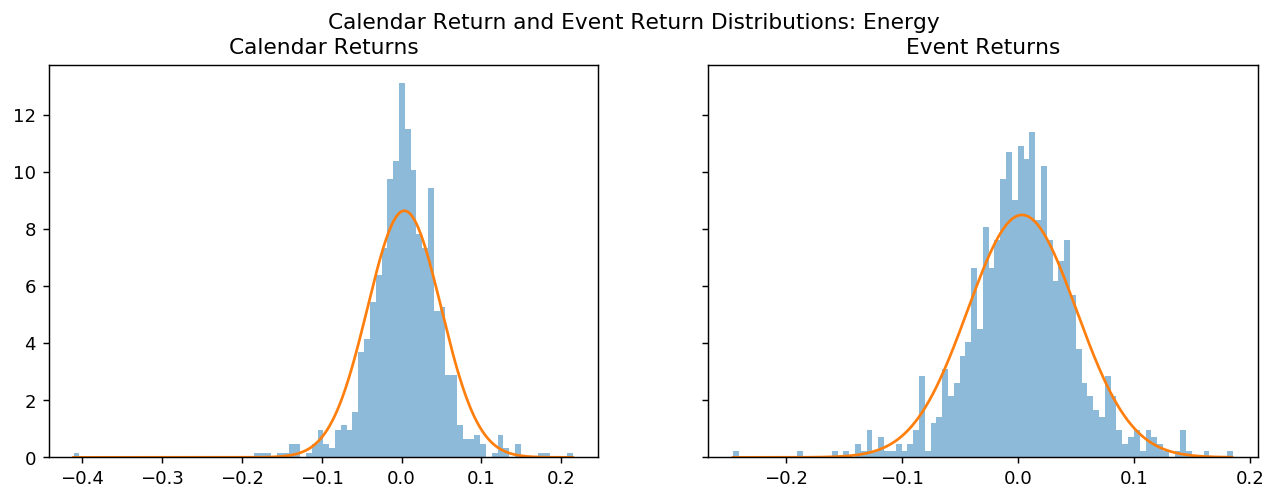
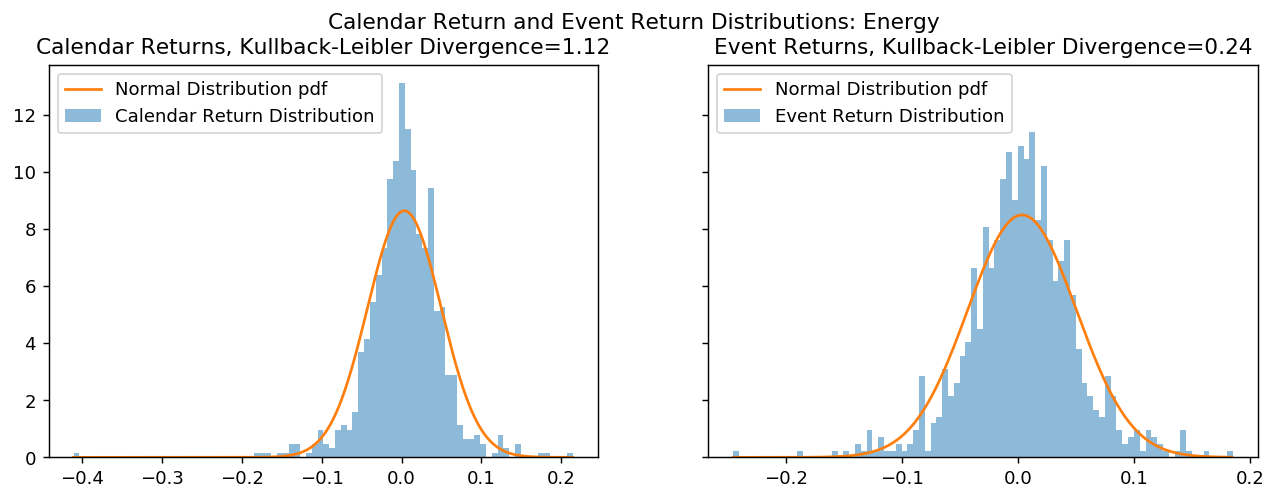
single observation

Changed region(s): [[0.0305, 0.0599, 0.4886, 0.2695], [0.5497, 0.0599, 0.9773, 0.2695], [0.0305, 0.1497, 0.0611, 0.1796]]

diff --git a/_posts/2022-09-01-Single_Observation.md b/_posts/2022-09-01-Single_Observation.md
@@ -1,0 +1,101 @@
+---
+layout: post
+title: Fat Tail, Single Observation
+date: 2022-09-01
+categories: Quant
+tag: Quantitative, Fat tail, Quant, 정량분석, 퀀트
+comments: True
+use_math: True
+---
+
+금융자산 수익률은 두꺼운 꼬리(fat-tail) 분포를 띄는 것이 일반적이다. Fat tail은 단순히 좌, 우의 극단적인 값이 정규(Normal)분포보다 더 흔하게 발생할 뿐만 아니라 수많은 통계치의 추정을 어렵게 한다.
+
+***
+
+### 모멘트(Moments)
+
+함수의 '모멘트'는 함수의 값들이 분포하는 모양(shape)을 정량적으로 측정하는 방법이다.
+
+이산확률변수 $X$의 확률분포함수를 $p(x)$라고 할 때, 확률분포함수 $p(x)$의 
+
+* 1차 모멘트는 평균(mean): $\sum X^{1} \times p(x)=E\left[X^1\right]$
+
+* 2차 모멘트는 분산(variance): $\sum X^{2} \times p(x)=E\left[X^2\right]$ 
+
+* 3차 모멘트는 왜도(skewness): $\sum X^{3} \times p(x)=E\left[X^3\right]$
+
+* 4차 모멘트는 첨도(kurtosis): $\sum X^{4} \times p(x)=E\left[X^4\right]$
+
+를 뜻한다.
+
+
+
+대부분의 금융자산의 수익률은 정규분포보다 꼬리가 두꺼운(fat-tail) 분포의 모습을 보인다. 그런데 금융자산 수익률의 분산(2차 모멘트)의 추이를 보면 한 가지 특징이 관찰되는데
+
+1. 시간에 따른 분산 값의 변화가 있고
+2. 그 변화 폭이 매우 클 때도 있으며
+3. 한 번 높아진 혹은 낮아진 분산 레벨이 꽤 오랜기간 지속되는 경향이 있다.
+
+이는 분산이 '소수의 관측치'에 의해 크게 영향을 받기 때문이다.
+
+<img src="/assets/images/djai monthly returns.png" width="90%" height="90%" title="다우존스 산업지수 월간수익률과 수익률의 표준편차 추이"/>
+
+
+
+### Single Observation
+
+단 하나의 관측치에 의해 2차, 4차 모멘트가 얼만큼 영향을 받는지 계산해본다.
+
+개별 금융자산의 수익률을 $X_i$라고 했을 때
+
+$Max Q_2:= \frac{ \max_i \left[ X_i^2 \right]} {\sum_i X_i^2} $
+
+$Max Q_4:= \frac{\max_i \left[ X_i^4 \right]}{\sum_i X_i^4} $
+
+를 계산해 본다. 이는 분산과 첨도를 계산함에 있어 개별 관측치가 미치는 영향의 최대값을 의미한다. (1차, 3차 모멘트는 음수가 될 수 있어서 제외한다.)
+
+다양한 금융자산 지수의 지수 시작일부터 2022년 8월 10일까지 일간 데이터를 기준으로 했을 때 결과는 아래와 같다.
+
+▼분산
+
+|      지수      | Max Q2 | Max Q4 |   시작일   | 데이터 수 |
+| :------------: | :----: | :----: | :--------: | :-------: |
+|      WTI       | 54.1%  | 97.3%  | 1983-01-10 |  10,328   |
+|   Hang Seng    |  4.9%  | 57.9%  | 1964-07-31 |  15,139   |
+|     S&P500     |  3.4%  | 45.1%  | 1963-12-31 |  15,292   |
+|  US TSY 10yr   |  2.1%  | 43.2%  | 1963-12-31 |  15,292   |
+|     GBPUSD     |  2.0%  | 36.5%  | 1963-12-31 |  15,292   |
+|     Silver     |  1.6%  | 21.8%  | 1979-01-02 |  11,377   |
+|  JP Govt 10yr  |  1.5%  |  6.8%  | 1966-10-31 |  14,553   |
+|    FTSE100     |  1.3%  | 12.9%  | 1983-12-30 |  10,074   |
+|   Nikkei225    |  1.2%  | 12.5%  | 1963-12-31 |  15,292   |
+|      Gold      |  1.1%  | 11.1%  | 1968-01-03 |  14,246   |
+|     USDJPY     |  1.0%  | 13.2%  | 1969-12-31 |  13,726   |
+|  EuroStoxx50   |  1.0%  |  8.8%  | 1986-12-31 |   9,291   |
+|  DE Govt 10yr  |  0.8%  |  9.2%  | 1977-04-18 |  11,823   |
+|     EURUSD     |  0.7%  |  7.7%  | 1963-12-31 |  15,292   |
+| 난수(정규분포) |  0.2%  |  0.8%  | 1963-12-31 |  15,292   |
+
+
+
+WTI의 경우 단 하루 수익률이 전체 분산의 54.1%, 전체 첨도의 97.3%를 차지하고,
+
+S&P500 지수의 경우 단 하루 수익률이 전체 분산의 3.4%, 전체 첨도의 45.1%를 차지했다.
+
+반면, 정규분포를 따르는 난수의 경우 단 하루 수익률이 전체 분산의 0.2%, 전체 첨도의 0.8%를 차지한 것과 비교하면 매우 큰 수치이다.
+
+금융자산 수익률은 정규분포가 아닌 것은 물론 상당한 fat-tail 분포를 보이고, fat-tail의 경우 분산, 왜도, 첨도 등의 통계치의 신뢰성이 담보되지 못한다.
+
+두 확률변수 $X$와 $Y$에 대해서
+
+$X$와 $X$ 사이의 2차 모멘트가 분산이고, $X$와 $Y$사이의 2차 모멘트와 유사한 것이 공분산(covariance)이라는 점을 고려했을 때
+
+$Var(X)= E\left[X^2\right]$, $Cov(X, Y)= E\left[X Y \right]$,
+
+$X$와 $Y$ 사이의 공분산, 그리고 상관관계 역시 의학 등 다른 영역의 데이터와 비교했을 때 신뢰성이 높지 않다. $X$와 $Y$ 사이 공분산 추정에 오류가 있을 수 있고, $X$와 $Y$의 표준편차 추정에 어려움이 있기 때문이다.
+
+정성(Qualitative) 분석에 대해서는 의심을 많이 하면서 정량(Quantiative) 분석에 대해서는 의심을 덜하는 경향이 있는데, 공분산, 분산, 표준편차, 상관관계, 왜도, 첨도 등을 활용하는 분석은 상당히 잘못된 결과를 초래할 수 있다.
+
+정량분석의 기저에는 "큰 수의 법칙([Law of large numbers - Wikipedia](https://en.wikipedia.org/wiki/Law_of_large_numbers))"이 자리잡고 있다. 그런데 Fat-tail 분포라는 것은 단순히 엄청 큰 값 혹은 엄청 작은 값이 정규분포보다 자주 발생하는 것을 넘어 통계치의 추정이 매우 어렵고, 심지어 불가능한 것을 의미한다. 그 결과 큰 수의 법칙도 적용하기 힘들다.
+
+<img src="/assets/images/fat tail - initial jobless claims.png" width="80%" height="80%" title="미국 신규 실업수당 청구건수: 발표치, 누적 평균, 누적 표준편차"/>

diff --git a/_posts/2022-08-31-Kullback_Leibler_Divergence.md b/_posts/2022-08-31-Kullback_Leibler_Divergence.md
@@ -1,0 +1,67 @@
+---
+layout: post
+title: Kullback-Leibler Divergence
+date: 2022-08-31
+categories: Information_Theory
+tag: Information Theory, Probability
+comments: True
+use_math: True
+---
+
+쿨백-레이블러 발산(Kullback-Leibler Divergence)에 대해 알아본다.
+
+***
+
+### 엔트로피(Entropy)
+
+엔트로피란 사건을 예측하는 데에 필요한 질문 개수를 의미한다. 다른 표현으로는 최적의 전략 하에서 필요한 질문개수에 대한 기댓값이다. 
+
+1부터 4까지 자연 수 중 하나를 맞추기 위해서는
+
+1. {1, 2} vs. {3, 4}
+
+2. (1 vs. 2) or (3 vs. 4)
+
+2개의 질문이 필요하다. 
+
+알파벳은 26개인데, 26개의 알파벳 중 하나를 맞추는 경우에 최적의 전략은 선택지를 절반씩 나누는 것이다. 이 경우에 $2^{질문개수} = 26$ 이다. 일반적으로
+
+<center>질문개수 = $\log_2$(가능한 결과의 수)</center>
+
+임을 알 수 있다.
+
+
+
+엔트로피가 감소한다는 것은 우리가 사건을 맞히기 위해서 필요한 질문의 개수가 줄어드는 것을 의미한다. 즉, 불확실성이 감소한다는 것을 의미한다.
+
+
+
+$X$가 $x \in S_X$를 값으로 가질 수 있는 이산 확률 변수(discrete random variable)일 때, X의 엔트로피(entropy)는 다음과 같다.
+
+<center>$H[X]= - \sum_{x \in S_x} p(x) \log(p(x))$</center>
+
+
+
+### 교차 엔트로피(Cross Entropy)
+
+확률변수 $X$의 엔트로피를 측정할 때 $X$의 실제 분포 $p$가 아닌 잘못된 분포 $q$를 사용할 경우, 즉
+
+<center>$H_c(p|q) = - \sum_{x \in S_x} p(x) \log(q(x))$</center>
+
+는 $H(X)$ 보다 불확실성이 더해진다. 즉, 
+
+
+
+<center>$H_c(p|q) = - \sum_{x \in S_x} p(x) \log(q(x))=H(X)- \sum_{x \in S_x} p(x) \log( {q(x) \over p(x)})$</center>
+
+
+
+이므로, $H(X)$에 $- \sum_{x \in S_x} p(x) \log( {q(x) \over p(x)} )$ 만큼의 불확실성이 더해진다. 이 추가되는 불확실성을 쿨백-라이블러 발산(Kullback-Leibler Divergence)라고 부른다.
+
+
+
+쿨백-라이블러 발산(Kullback-Leibler Divergence)는 두 확률분포의 차이를 계산하는 데에 사용하는 함수로, 어떤 이상적인 분포($q$)에 대해, 그 분포를 근사하는 다른 분포($p$)를 사용해 샘플링을 한다면 발생할 수 있는 엔트로피 차이를 계산한다. 상대 엔트로피(relative entropy)라고도 한다.
+
+<center>$D_{KL} (p ||q) = - \sum_{x \in S_x} p(x) \log \left[ q(x)\over p(x) \right]$</center>
+
+여기서 $p(x)$와 $q(x)$가 닮을수록 $\log\left[ q(x)\over p(x) \right]$ 값이 0에 가까워지고 $D_{KL}$의 값은 0에 가까워 진다. 즉 Divergence가 적다.

diff --git a/_posts/2022-08-30-A_Mind_at_Play.md b/_posts/2022-08-30-A_Mind_at_Play.md
@@ -2,7 +2,7 @@
 layout: post
 title: 『저글러, 땜장이, 놀이꾼, 디지털 세상을 설계하다』 NOTE
 date: 2022-08-30
-categories: Information Theory
+categories: Information_Theory
 tag: Information Theory, Probability, Quantitative, Quant, Claude Shannon, Machine Learning
 comments: True
 ---

diff --git a/_posts/2022-08-28-Confessions-of-a-Hedge-Fund-Manager.md b/_posts/2022-08-28-Confessions-of-a-Hedge-Fund-Manager.md
@@ -2,7 +2,7 @@
 layout: post
 title: 『헤지펀드의 진실, 펀드 매니저의 고백』 NOTE
 date: 2022-08-28
-categories: Investment
+categories: Investment Worklife
 tag: HedgeFund
 comments: True
 ---
